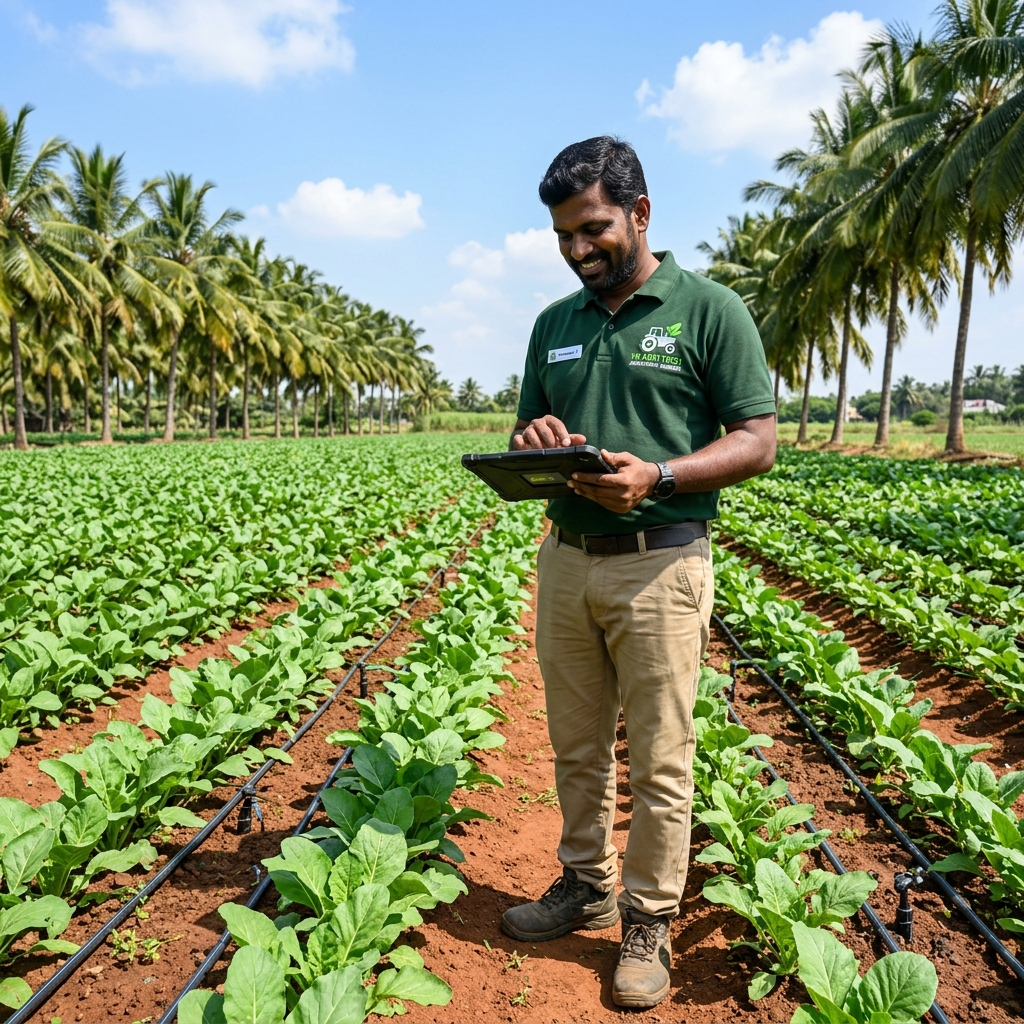
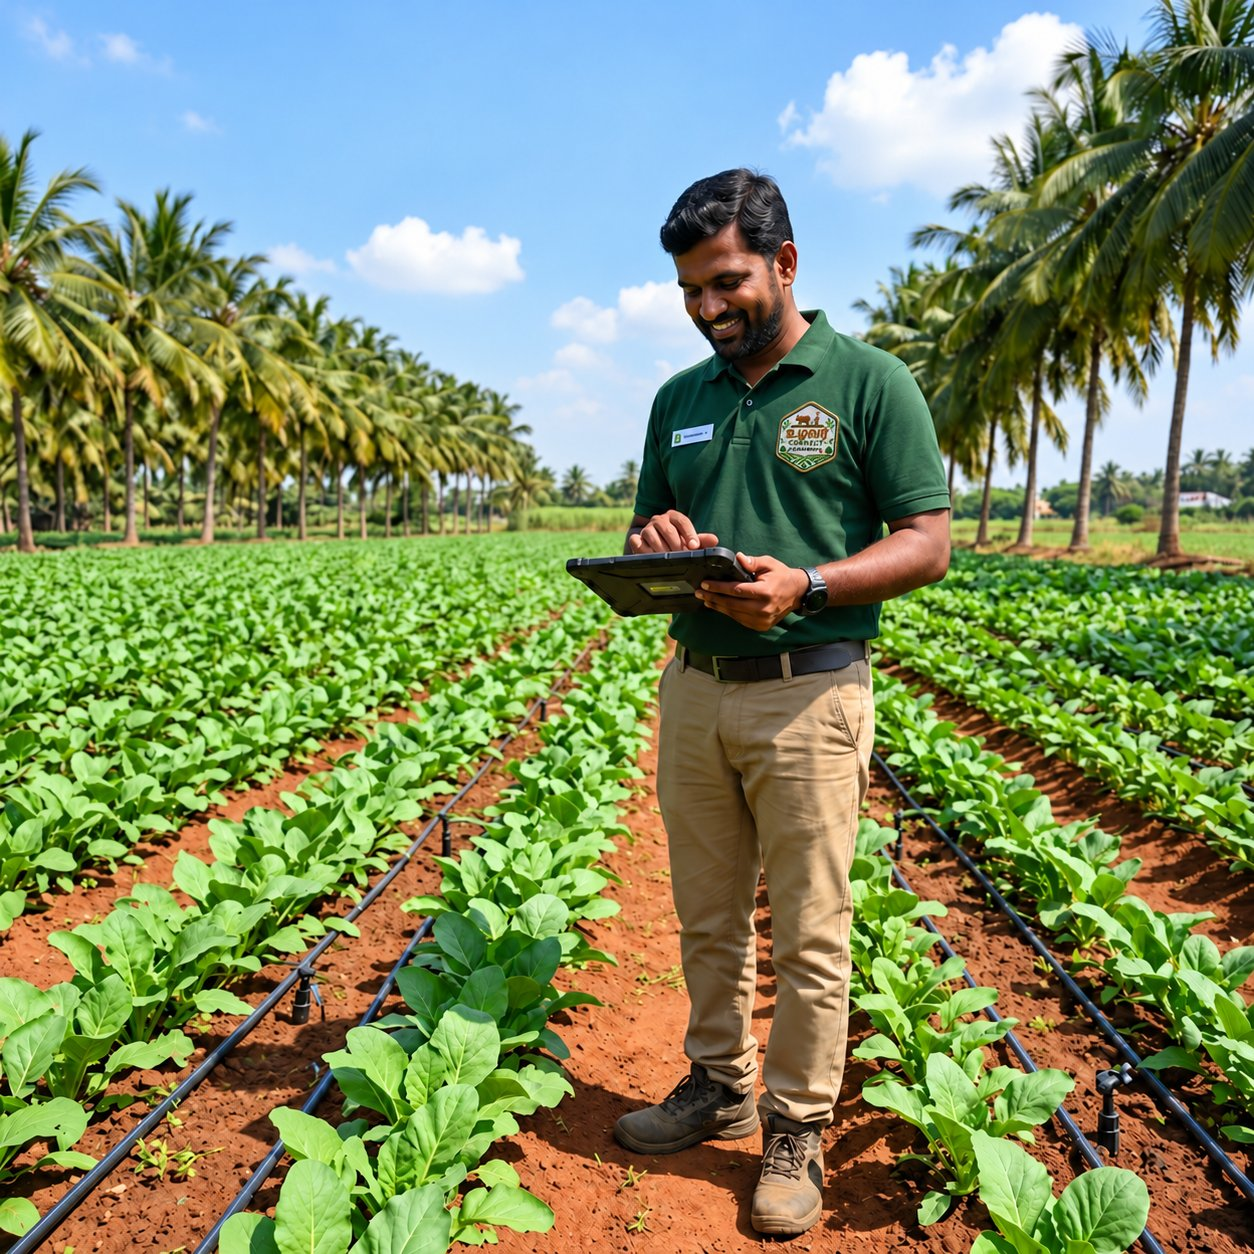
Update last npp

diff --git a/src/pages/Home/components/AmcBanner.tsx b/src/pages/Home/components/AmcBanner.tsx
@@ -4,10 +4,10 @@ import { Link } from 'react-router-dom';
 export const AmcBanner: React.FC = () => {
   return (
     <section className="relative w-full max-w-7xl mx-auto px-4 sm:px-6 lg:px-8 py-4 sm:py-6">
-      <div className="relative rounded-2xl sm:rounded-3xl overflow-hidden bg-[#0c371e] text-white shadow-xl h-[300px] flex flex-col md:flex-row items-stretch">
-        
-        {/* Decorative leaf near bottom-left */}
-        <picture>
+      <div className="relative rounded-2xl sm:rounded-3xl overflow-hidden bg-[#0c371e] text-white shadow-xl flex flex-col md:flex-row items-stretch min-h-[220px] sm:min-h-[260px] md:h-[300px]">
+
+        {/* Decorative leaf bottom-left */}
+        <picture className="absolute -bottom-4 -left-4 pointer-events-none select-none z-0">
           <source srcSet="/assets/f0428fe6-7a9d-4007-b7c9-37234cc039e6.webp" type="image/webp" />
           <img
             src="/assets/f0428fe6-7a9d-4007-b7c9-37234cc039e6.png"
@@ -17,31 +17,31 @@ export const AmcBanner: React.FC = () => {
             decoding="async"
             width={144}
             height={144}
-            className="absolute -bottom-4 -left-4 w-28 sm:w-36 h-auto pointer-events-none select-none opacity-20 -scale-x-100 z-0"
+            className="w-28 sm:w-36 h-auto opacity-20 -scale-x-100"
           />
         </picture>
 
-        {/* Left Content Area */}
-        <div className="relative z-10 flex-1 p-5 sm:p-7 lg:p-8 flex flex-col justify-center max-w-xl">
+        {/* ── LEFT: Text Content ── */}
+        <div className="relative z-10 flex-1 p-6 sm:p-8 lg:p-10 flex flex-col justify-center">
           {/* Eyebrow */}
-          <div className="flex items-center gap-2 mb-2 sm:mb-2.5">
+          <div className="flex items-center gap-2 mb-2.5">
             <span className="w-6 sm:w-7 h-[1.5px] bg-[#86efac]" aria-hidden="true" />
             <span className="text-[11px] sm:text-xs font-bold tracking-[0.2em] text-[#86efac] uppercase">
-              FARM MAINTENANCE (AMC)
+              Farm Maintenance (AMC)
             </span>
           </div>
 
           {/* Heading */}
-          <h2 className="font-serif font-bold text-2xl sm:text-3xl lg:text-[32px] text-white leading-[1.18] tracking-tight">
+          <h2 className="font-serif font-bold text-2xl sm:text-3xl lg:text-[34px] text-white leading-[1.18] tracking-tight">
             Complete<br className="hidden sm:inline" /> Farm Maintenance
           </h2>
 
           {/* Description */}
-          <p className="mt-2 text-xs sm:text-sm md:text-[14.5px] text-[#d1fae5]/90 max-w-md leading-relaxed font-normal">
+          <p className="mt-2 sm:mt-3 text-xs sm:text-sm text-[#d1fae5]/85 max-w-sm leading-relaxed font-normal">
             Regular care keeps your farm healthy, productive and profitable.
           </p>
 
-          {/* Golden Button with WCAG AA compliance (4.88:1) */}
+          {/* CTA Button */}
           <div className="mt-4 sm:mt-5">
             <Link
               to="/contact"
@@ -55,23 +55,24 @@ export const AmcBanner: React.FC = () => {
           </div>
         </div>
 
-        {/* Right Image */}
-        <div className="relative md:w-3/5 lg:w-[52%] h-full overflow-hidden">
+        {/* ── RIGHT: Image ── */}
+        <div className="relative md:w-[55%] lg:w-[52%] h-56 md:h-full overflow-hidden flex-shrink-0">
           <picture>
             <source srcSet="/assets/amc-banner-supervisor.webp" type="image/webp" />
             <img
               src="/assets/amc-banner-supervisor.jpg"
-              alt="Farm Maintenance"
+              alt="Farm Maintenance Supervisor"
               loading="lazy"
               decoding="async"
               width={700}
-              height={300}
-              className="w-full h-full object-cover object-[center_35%]"
+              height={400}
+              className="w-full h-full object-cover object-[center_top]"
             />
           </picture>
-          {/* Smooth gradient transition into solid dark green on the left */}
-          <div className="hidden md:block absolute inset-y-0 left-0 w-36 bg-gradient-to-r from-[#0c371e] via-[#0c371e]/75 to-transparent pointer-events-none" />
-          <div className="md:hidden absolute inset-0 bg-gradient-to-t from-[#0c371e] via-transparent to-transparent pointer-events-none" />
+          {/* Left fade gradient into dark green */}
+          <div className="hidden md:block absolute inset-y-0 left-0 w-40 bg-gradient-to-r from-[#0c371e] via-[#0c371e]/70 to-transparent pointer-events-none" />
+          {/* Top fade on mobile */}
+          <div className="md:hidden absolute inset-0 bg-gradient-to-t from-[#0c371e] via-[#0c371e]/30 to-transparent pointer-events-none" />
         </div>
 
       </div>
